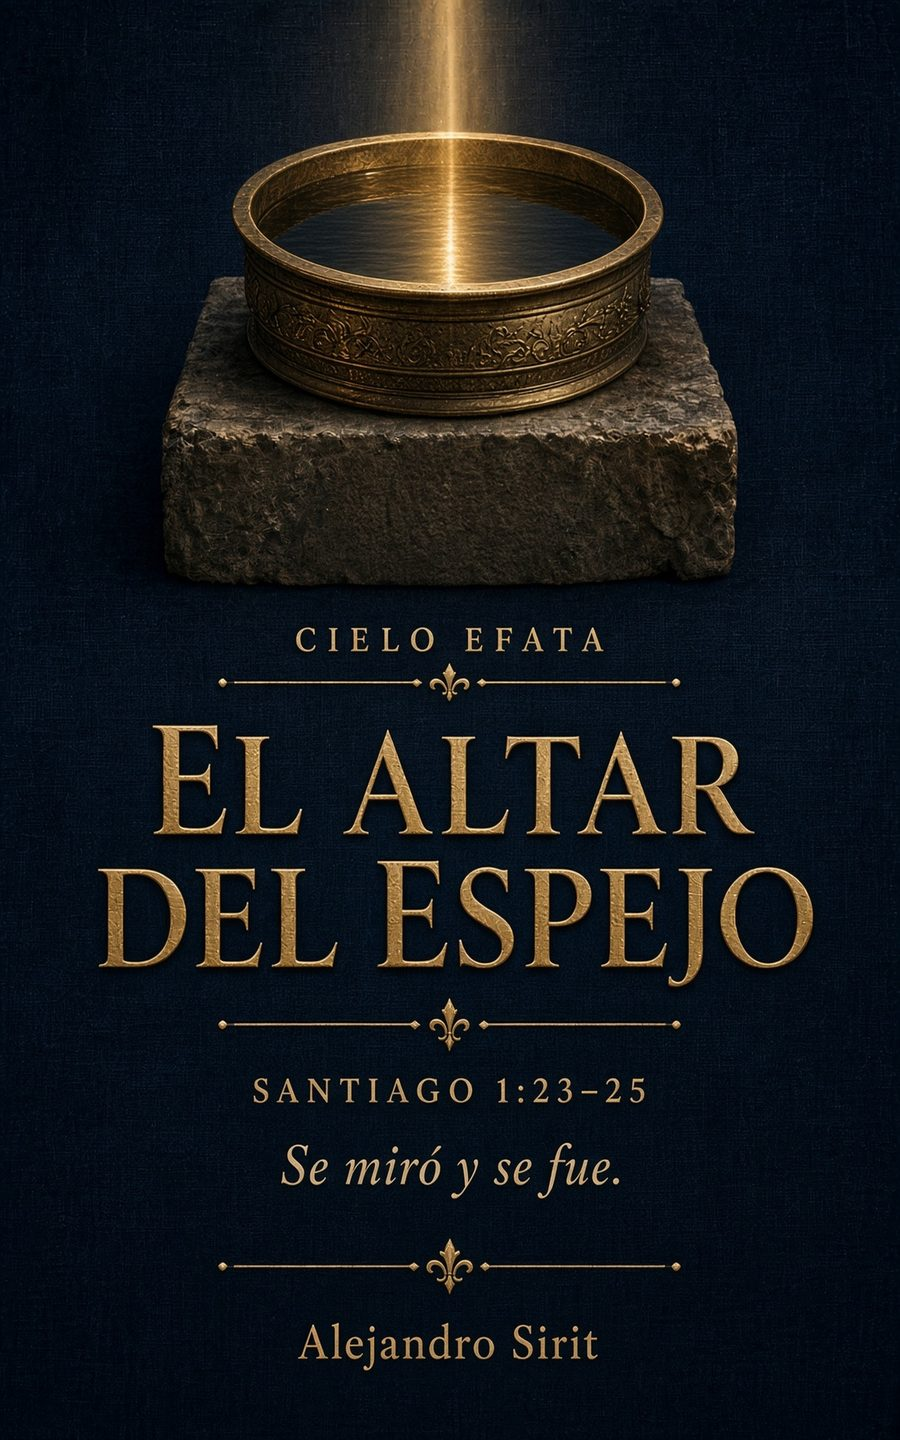
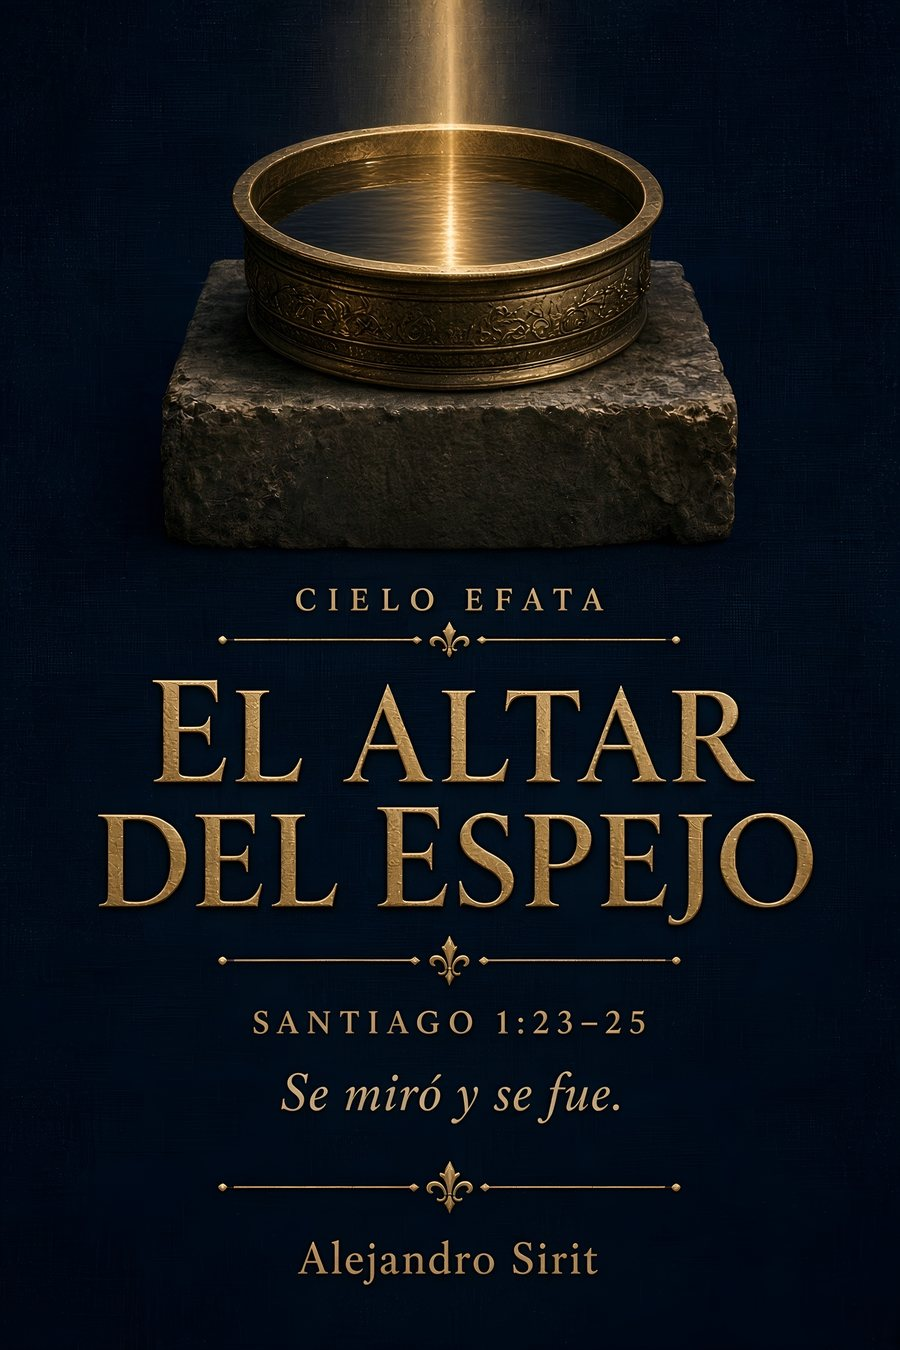
Tapas oficiales del kit KDP (5 corregidas, 9 normalizadas) y fichas de Amazon verificadas: ASIN, tapa blanda, subtítulos publicados y Éfata en 25 capítulos

Changed region(s): [[0.56, 0.2489, 0.6222, 0.28]]

diff --git a/src/lib/content.ts b/src/lib/content.ts
@@ -154,6 +154,8 @@ export type Obra = {
   crisol?: boolean;
   asinEbook?: string;
   isbnPrint?: string;
+  /** ASIN de la tapa blanda publicada en Amazon (enlace /dp/). El ISBN-13 va en isbnPrint (JSON-LD). */
+  asinPrint?: string;
   /** Published Amazon title when it differs from the house reading-order title. Never an invented ASIN. */
   amazonTitle?: string;
   /** Muestra en la ficha el enlace «Estudia cada capítulo de este libro con IA en RevelatiO» (revelatio.app/libros/<slug>). */
@@ -224,16 +226,18 @@ export const obras: Obra[] = [
     subtitulo: "Deja de coleccionar versículos. Aprende a oír a Dios.",
     seoTitle: "Éfata: La Escritura Abierta, Marcos 7 | Alejandro Sirit",
     seoDescription:
-      "Marcos 7:31–37 en cuarenta estaciones: el sordo de Decápolis, traído por otros, abierto por Cristo. Deja de coleccionar versículos y aprende a oír a Dios.",
+      "Marcos 7:31–37 en veinticinco capítulos: el sordo de Decápolis, traído por otros, abierto por Cristo. Deja de coleccionar versículos y aprende a oír a Dios.",
     line: "En la Decápolis le trajeron a Jesús un sordo y tartamudo. No vino él. El Señor lo apartó de la gente, miró al cielo, gimió y le dijo: Éfata. Este libro recorre esa hora sin prisa y no convierte la palabra de Jesús en un lema: quien lo termina no se lleva solo un método, sino que queda bajo la Palabra.",
     thesis:
-      "No es un diario ni un plan de semanas. Es una sola historia en cuarenta estaciones y cinco partes: «Lo traen», «Éfata», «A quién oyó», «La casa» y «Permanece». El hombre que Marcos no nombra no camina hacia Jesús por su virtud; otros lo ponen delante. La palabra la dice el Hijo, y al momento se abre el oído. Pero el oído abierto puede volver a cerrarse, y por eso el camino sigue: el Padre que habló desde el principio, el Hijo de quien eran esas manos, el Espíritu que no se confunde con una técnica, y el oficio de oír la Escritura entera sin arrancarle una frase. Al final incluye una guía para volver a leerlo.",
+      "No es un diario ni un plan de semanas. Es una sola historia en veinticinco capítulos y cinco partes: «Lo traen», «Éfata», «A quién oyó», «La lengua suelta» y «Permanece». El hombre que Marcos no nombra no camina hacia Jesús por su virtud; otros lo ponen delante. La palabra la dice el Hijo, y al momento se abre el oído. Pero el oído abierto puede volver a cerrarse, y por eso el camino sigue: el Padre que habló desde el principio, el Hijo de quien eran esas manos, el Espíritu que no se confunde con una técnica, y el oficio de oír la Escritura entera sin arrancarle una frase. Al final incluye una guía para volver a leerlo.",
     sample:
-      "No es un diario ni un plan de semanas. Es una sola historia en cuarenta estaciones. El hombre que Marcos no nombra no camina hacia Jesús por su virtud; otros lo ponen delante. La palabra la dice el Hijo, y al momento se abre el oído.",
+      "No es un diario ni un plan de semanas. Es una sola historia en veinticinco capítulos. El hombre que Marcos no nombra no camina hacia Jesús por su virtud; otros lo ponen delante. La palabra la dice el Hijo, y al momento se abre el oído.",
     ref: "Mr. 7:34–35",
     pasaje: "Marcos 7",
     studySlug: "marcos-7",
-    sinAmazon: true,
+    asinEbook: "B0HJ15ZXL3",
+    asinPrint: "B0HKSRS7TZ",
+    isbnPrint: "9798172426322",
   },
   {
     n: 4,
@@ -241,7 +245,7 @@ export const obras: Obra[] = [
     slug: "el-siervo-no-tu",
     revelatio: true,
     title: "El Siervo, no tú",
-    subtitulo: "Isaías 52:13 – 53:12",
+    subtitulo: "Isaías 53 y la sustitución que no se imita",
     seoTitle: "El Siervo, no tú: Isaías 53:5 | Alejandro Sirit",
     seoDescription:
       "Isaías 53:5 y el Siervo herido por nuestras rebeliones. Alejandro Sirit presenta la cruz como sacrificio sustitutivo, no como autoexpiación.",
@@ -263,7 +267,7 @@ export const obras: Obra[] = [
     revelatio: true,
     title: "Bástate",
     amazonTitle: "Bástate mi gracia",
-    subtitulo: "2 Corintios 12:1–10",
+    subtitulo: "El Señor ha dicho, y el aguijón quedó",
     seoTitle: "Bástate mi gracia: 2 Corintios 12:9 | Alejandro Sirit",
     seoDescription:
       "Qué significa «Bástate mi gracia»: Alejandro Sirit lee 2 Corintios 12:9-10, donde la gracia sostiene y el poder de Cristo se perfecciona en la debilidad.",
@@ -275,6 +279,9 @@ export const obras: Obra[] = [
     ref: "2 Co. 12:9",
     pasaje: "2 Corintios 12",
     studySlug: "2-corintios-12",
+    asinEbook: "B0HKQHNRBC",
+    asinPrint: "B0HN7MTCZ1",
+    isbnPrint: "9798162809135",
   },
   {
     n: 3,
@@ -282,7 +289,7 @@ export const obras: Obra[] = [
     slug: "cuando-el-cielo-se-cae",
     revelatio: true,
     title: "Cuando el cielo se cae",
-    subtitulo: "El libro de Job",
+    subtitulo: "Jehová dio, y Jehová quitó",
     seoTitle: "Cuando el cielo se cae: Job 42:5 | Alejandro Sirit",
     seoDescription:
       "Una lectura de Job 42:5-6 sobre el sufrimiento, el lamento y el encuentro con Dios. Alejandro Sirit no ofrece respuestas rápidas, sino la presencia del Señor.",
@@ -294,7 +301,7 @@ export const obras: Obra[] = [
     ref: "Job 42:5–6 · Lm. 3:22–23",
     pasaje: "Job 42",
     studySlug: "",
-    isbnPrint: "9798176466690",
+    asinEbook: "B0HN5YD6LP",
   },
   {
     n: 2,
@@ -302,7 +309,7 @@ export const obras: Obra[] = [
     slug: "el-altar-del-espejo",
     revelatio: true,
     title: "El altar del espejo",
-    subtitulo: "Santiago 1",
+    subtitulo: "Santiago 1 y el culto de sí mismo",
     seoTitle: "El altar del espejo: Santiago 1:23-25 | Alejandro Sirit",
     seoDescription:
       "Santiago 1 contado como una sola historia: un hombre delante de un cristal, el culto de sí mismo y el que se queda mirando la ley perfecta de la libertad.",
@@ -316,7 +323,7 @@ export const obras: Obra[] = [
     studySlug: "santiago-1",
     tratadoSlug: "el-crisol-de-lo-oido",
     crisol: true,
-    sinAmazon: true,
+    asinEbook: "B0HJ6B33V3",
   },
   {
     n: 1,
@@ -356,7 +363,9 @@ export const obras: Obra[] = [
     ref: "1 Jn. 4:1 · He. 5:14",
     pasaje: "1 Juan 4",
     studySlug: "",
-    sinAmazon: true,
+    asinEbook: "B0HN6G4NG4",
+    asinPrint: "B0HN6BFCF2",
+    isbnPrint: "9798162796060",
   },
   {
     n: 9,

diff --git a/src/lib/seo-meta.test.ts b/src/lib/seo-meta.test.ts
@@ -79,24 +79,34 @@ test("títulos únicos y descripciones de 120 a 160", async () => {
   assert.deepEqual(fails, []);
 });
 
-test("Bástate no tiene ficha de Amazon", () => {
+test("solo los libros sin edición publicada en Amazon quedan sin ficha", () => {
+  // Comprobado en amazon.com el 17-10-2026: Pórtico, De una misma boca y Nunca tocarás mi fe aún no están publicados.
   const sin = obras.filter((o) => !amazonDeObra(o)).map((o) => o.slug);
-  assert.deepEqual(sin, ["portico-a-la-escritura", "efata", "bastate-mi-gracia", "el-altar-del-espejo", "de-una-misma-boca", "diakrisis", "nunca-tocaras-mi-fe"]);
+  assert.deepEqual(sin, ["portico-a-la-escritura", "de-una-misma-boca", "nunca-tocaras-mi-fe"]);
+  for (const o of obras) assert.equal(Boolean(o.sinAmazon), !amazonDeObra(o), o.slug);
 });
 
-test("el ISBN de imprenta entra en el Book solo donde ya existe", () => {
-  const conIsbn = obras.filter((o) => o.isbnPrint).map((o) => [o.slug, camposLibro(o).isbn]);
-  assert.deepEqual(conIsbn, [["cuando-el-cielo-se-cae", "9798176466690"]]);
-  for (const slug of ["efata", "el-altar-del-espejo", "de-una-misma-boca"]) {
-    const o = obras.find((x) => x.slug === slug)!;
-    assert.equal(o.sinAmazon, true, slug);
-    const libro = camposLibro(o);
+test("ASIN e ISBN de imprenta coinciden con las fichas publicadas en Amazon", () => {
+  const fichas = obras
+    .filter((o) => o.asinEbook || o.asinPrint || o.isbnPrint)
+    .map((o) => [o.slug, o.asinEbook, o.asinPrint, o.isbnPrint]);
+  assert.deepEqual(fichas, [
+    ["efata", "B0HJ15ZXL3", "B0HKSRS7TZ", "9798172426322"],
+    ["el-siervo-no-tu", "B0HKQGBYV4", undefined, undefined],
+    ["bastate-mi-gracia", "B0HKQHNRBC", "B0HN7MTCZ1", "9798162809135"],
+    ["cuando-el-cielo-se-cae", "B0HN5YD6LP", undefined, undefined],
+    ["el-altar-del-espejo", "B0HJ6B33V3", undefined, undefined],
+    ["diakrisis", "B0HN6G4NG4", "B0HN6BFCF2", "9798162796060"],
+  ]);
+  for (const o of obras.filter((x) => x.isbnPrint)) assert.equal(camposLibro(o).isbn, o.isbnPrint, o.slug);
+  for (const slug of ["de-una-misma-boca", "portico-a-la-escritura", "nunca-tocaras-mi-fe"]) {
+    const libro = camposLibro(obras.find((x) => x.slug === slug)!);
     assert.equal("isbn" in libro, false, slug);
     assert.equal("sameAs" in libro, false, slug);
-    assert.equal("offers" in libro, false, slug);
   }
+  // Ediciones viejas que no deben volver: Callar para ganar, el manual anterior de Job y la tapa blanda vieja del Altar.
   const fuente = readFileSync(new URL("./content.ts", import.meta.url), "utf8");
-  for (const viejo of ["B0HJ15ZXL3", "B0GPF3NHQT", "9798253959213", "9798176414967"]) {
+  for (const viejo of ["B0GPF3NHQT", "9798176466690", "B0HKT237N1", "B0HKSZ6B9T", "9798176414967"]) {
     assert.equal(fuente.includes(viejo), false, viejo);
   }
 });

diff --git a/src/lib/copy-nivel.ts b/src/lib/copy-nivel.ts
@@ -19,7 +19,7 @@ export const MARCO_HOY = "";
 /** Nueve muestras de primer capítulo. Clave: slug del libro. */
 export const MUESTRAS_TOMO: Record<string, string> = {
   efata:
-    "Éfata se lee de corrido, en cuarenta estaciones agrupadas en cinco partes: «Lo traen», «Éfata», «A quién oyó», «La casa» y «Permanece». Parte del oído que Cristo abre en Marcos 7, pasa por el Padre, el Hijo y el Espíritu que hablan en la Escritura, y enseña el método V.E.R.D.A.D. para leer un pasaje entero sin arrancarle una frase. No es un plan de lecturas por semanas: es un libro para leer y volver a él.",
+    "Éfata se lee de corrido, en veinticinco capítulos agrupados en cinco partes: «Lo traen», «Éfata», «A quién oyó», «La lengua suelta» y «Permanece». Parte del oído que Cristo abre en Marcos 7, pasa por el Padre, el Hijo y el Espíritu que hablan en la Escritura, y enseña el método V.E.R.D.A.D. para leer un pasaje entero sin arrancarle una frase. No es un plan de lecturas por semanas: es un libro para leer y volver a él.",
   "el-siervo-no-tu":
     "Isaías no te ofrece un espejo: te muestra a un inocente en lugar del culpable. El cuarto Cántico del Siervo (52:13–53:12) dice lo que el título no permite mover: Él llevó; nosotros éramos. Este libro derriba la autoexpiación evangélica y la idea de un «Siervo terapéutico». La ofrenda por la culpa (ʾāšām, Isaías 53:10) no se imita. Tú no eres el Siervo: el eunuco de Hechos 8 no se pone a sí mismo en el versículo, sino que pregunta de quién habla el profeta, cree y pide el bautismo.",
   "bastate-mi-gracia":

diff --git a/src/components/adquirir.tsx b/src/components/adquirir.tsx
@@ -8,6 +8,7 @@ type AdquirirProps = {
   amazonTitle?: string;
   asinEbook?: string;
   isbnPrint?: string;
+  asinPrint?: string;
   pack?: boolean;
   /** Libro sin edición publicada en Amazon: no se ofrece búsqueda ni enlace de compra. */
   sinAmazon?: boolean;
@@ -20,11 +21,12 @@ export function Adquirir({
   amazonTitle,
   asinEbook,
   isbnPrint,
+  asinPrint,
   pack = false,
   sinAmazon = false,
 }: AdquirirProps) {
   const ebookHref = asinEbook ? amazonDp(asinEbook) : undefined;
-  const printHref = isbnPrint ? amazonDp(isbnPrint) : undefined;
+  const printHref = asinPrint ? amazonDp(asinPrint) : isbnPrint ? amazonDp(isbnPrint) : undefined;
   const wa = title ? whatsappTomo(title) : adquisicion.whatsapp;
   const searchTitle = amazonTitle ?? title;
   const searchHref =

diff --git a/src/components/tapa.tsx b/src/components/tapa.tsx
@@ -57,7 +57,7 @@ export function Tapa({ obra, size = "lg", className = "", priority = false }: Ta
       sizes={MINIATURAS.has(obra.slug) ? SIZES[size] : undefined}
       alt={`Tapa de ${obra.title}, Alejandro Sirit. Editorial Cielo Efata.`}
       width={900}
-      height={1440}
+      height={1350}
       decoding="async"
       fetchPriority={priority ? "high" : "low"}
       loading={priority ? "eager" : "lazy"}

diff --git a/src/routes/obras/$slug.tsx b/src/routes/obras/$slug.tsx
@@ -136,6 +136,7 @@ export function ObraPage() {
         slug={obra.slug}
         asinEbook={obra.asinEbook}
         isbnPrint={obra.isbnPrint}
+        asinPrint={obra.asinPrint}
         sinAmazon={obra.sinAmazon}
         pack
       />
